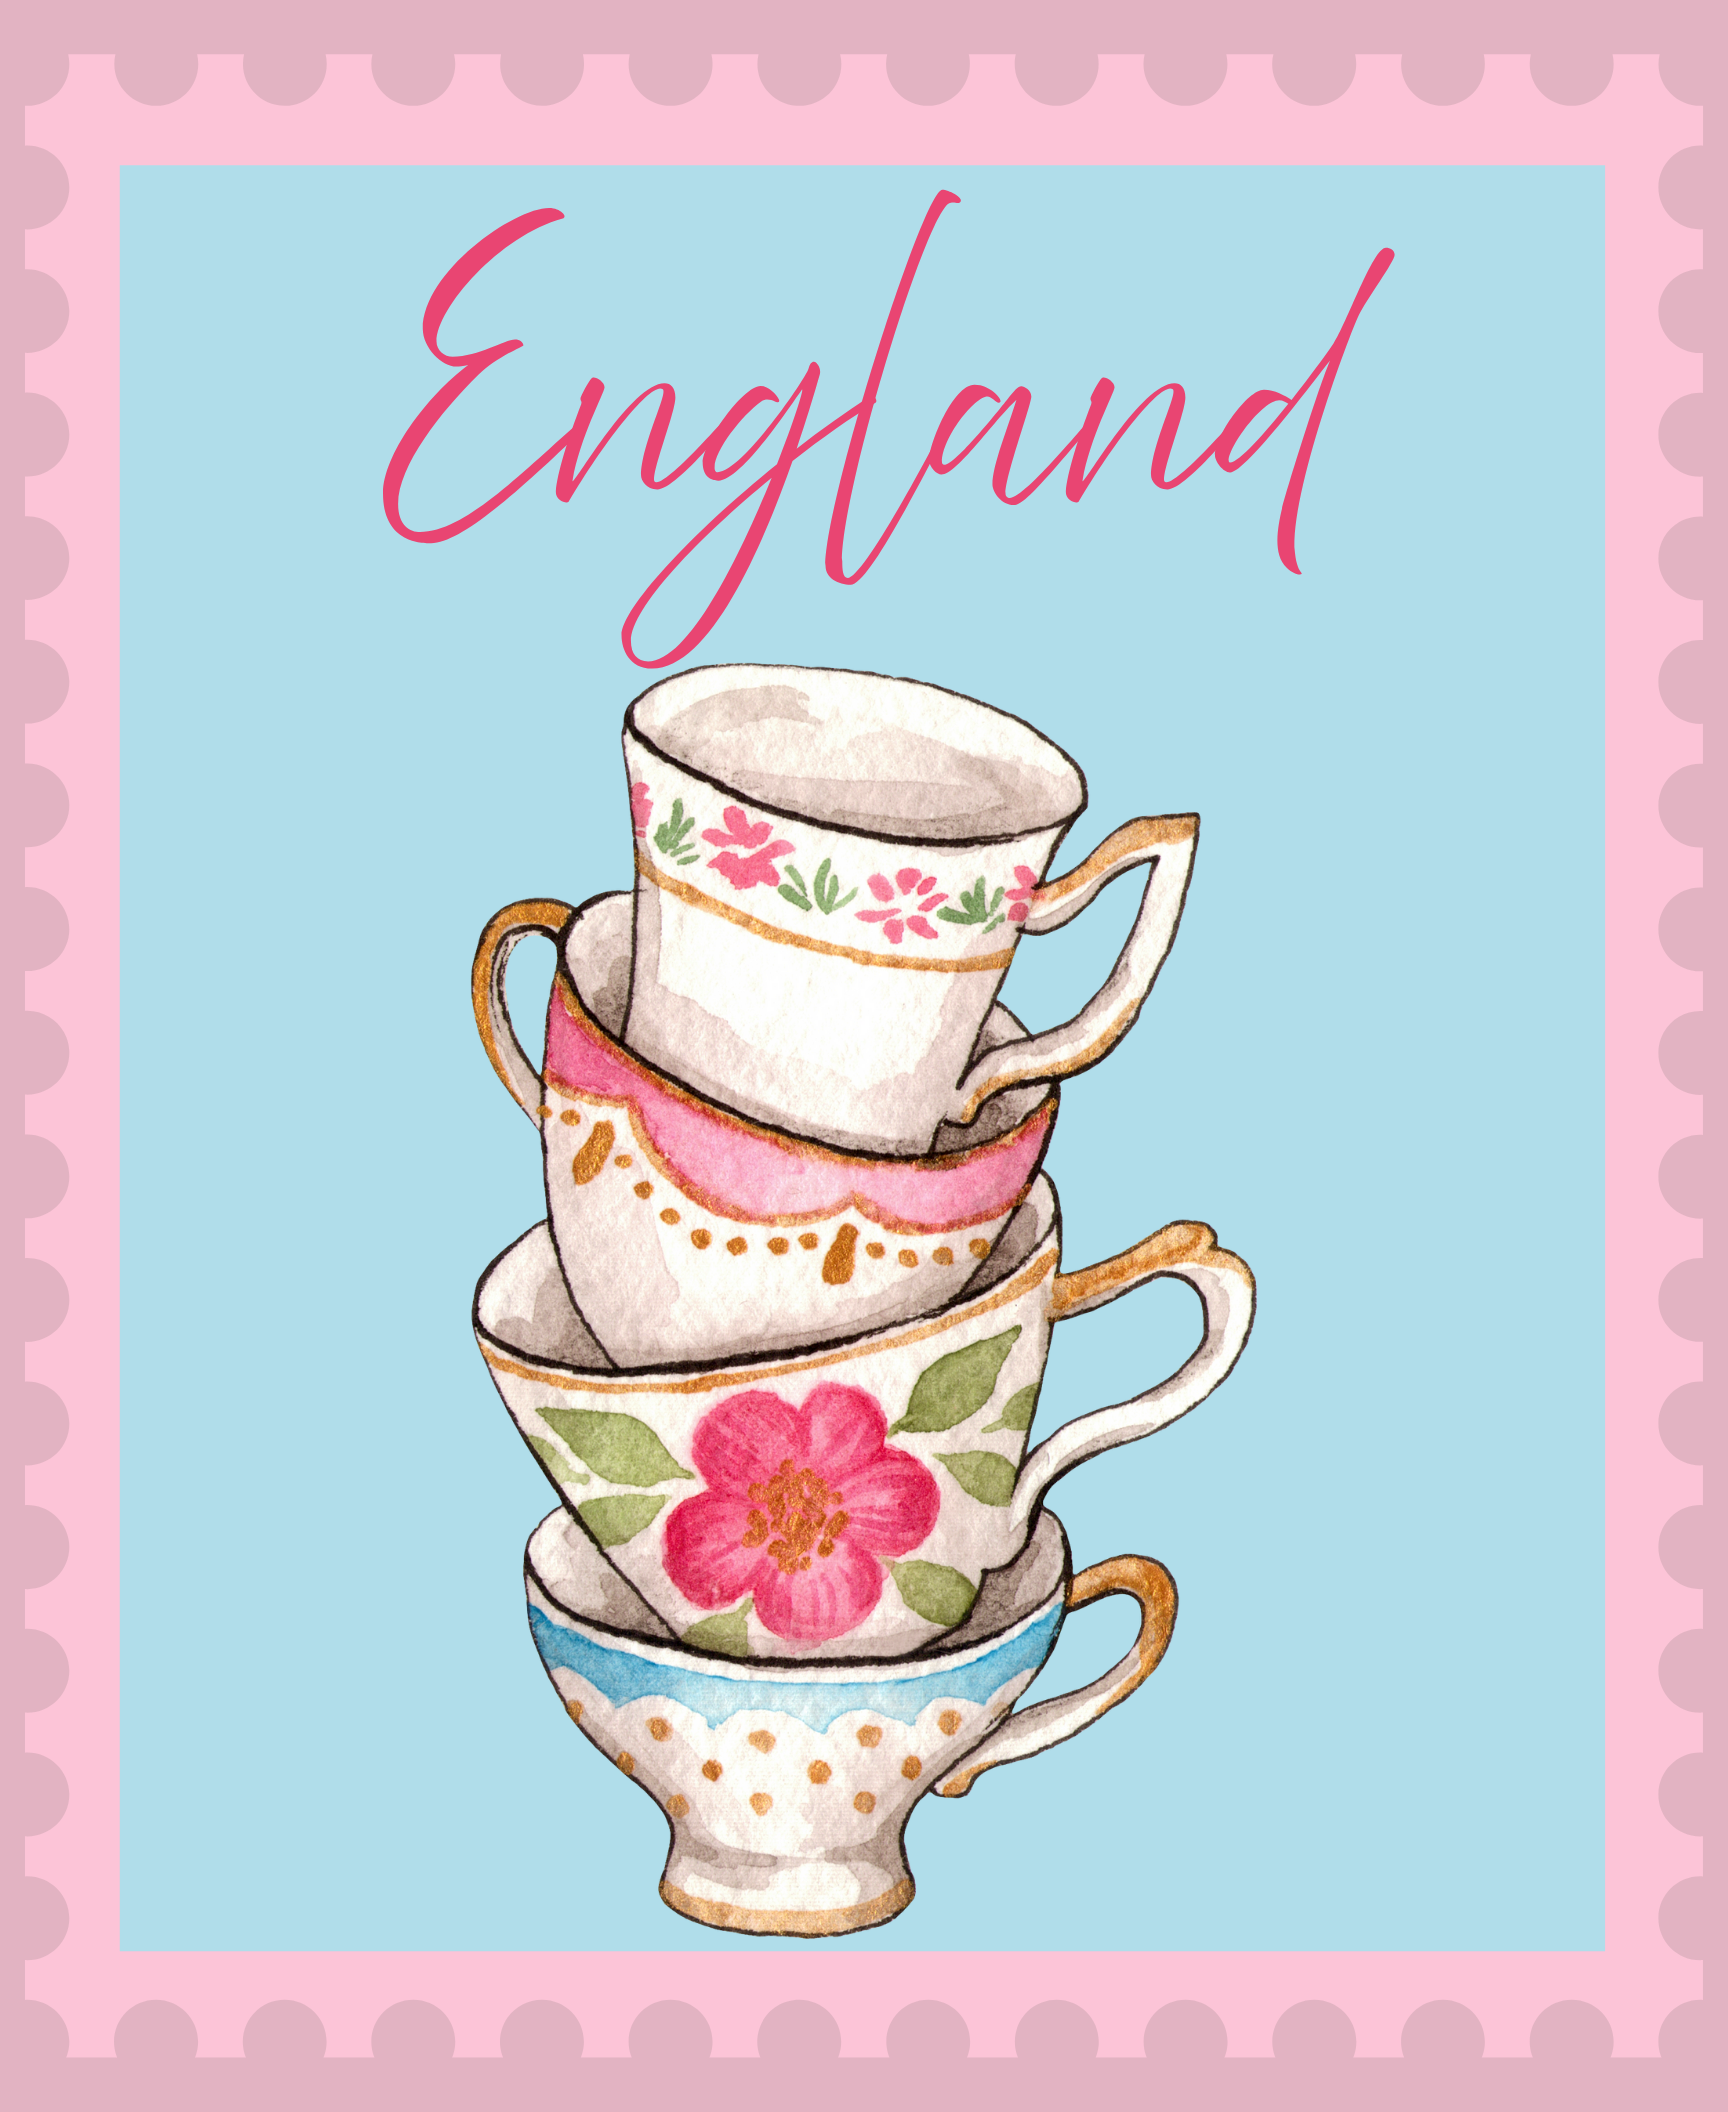
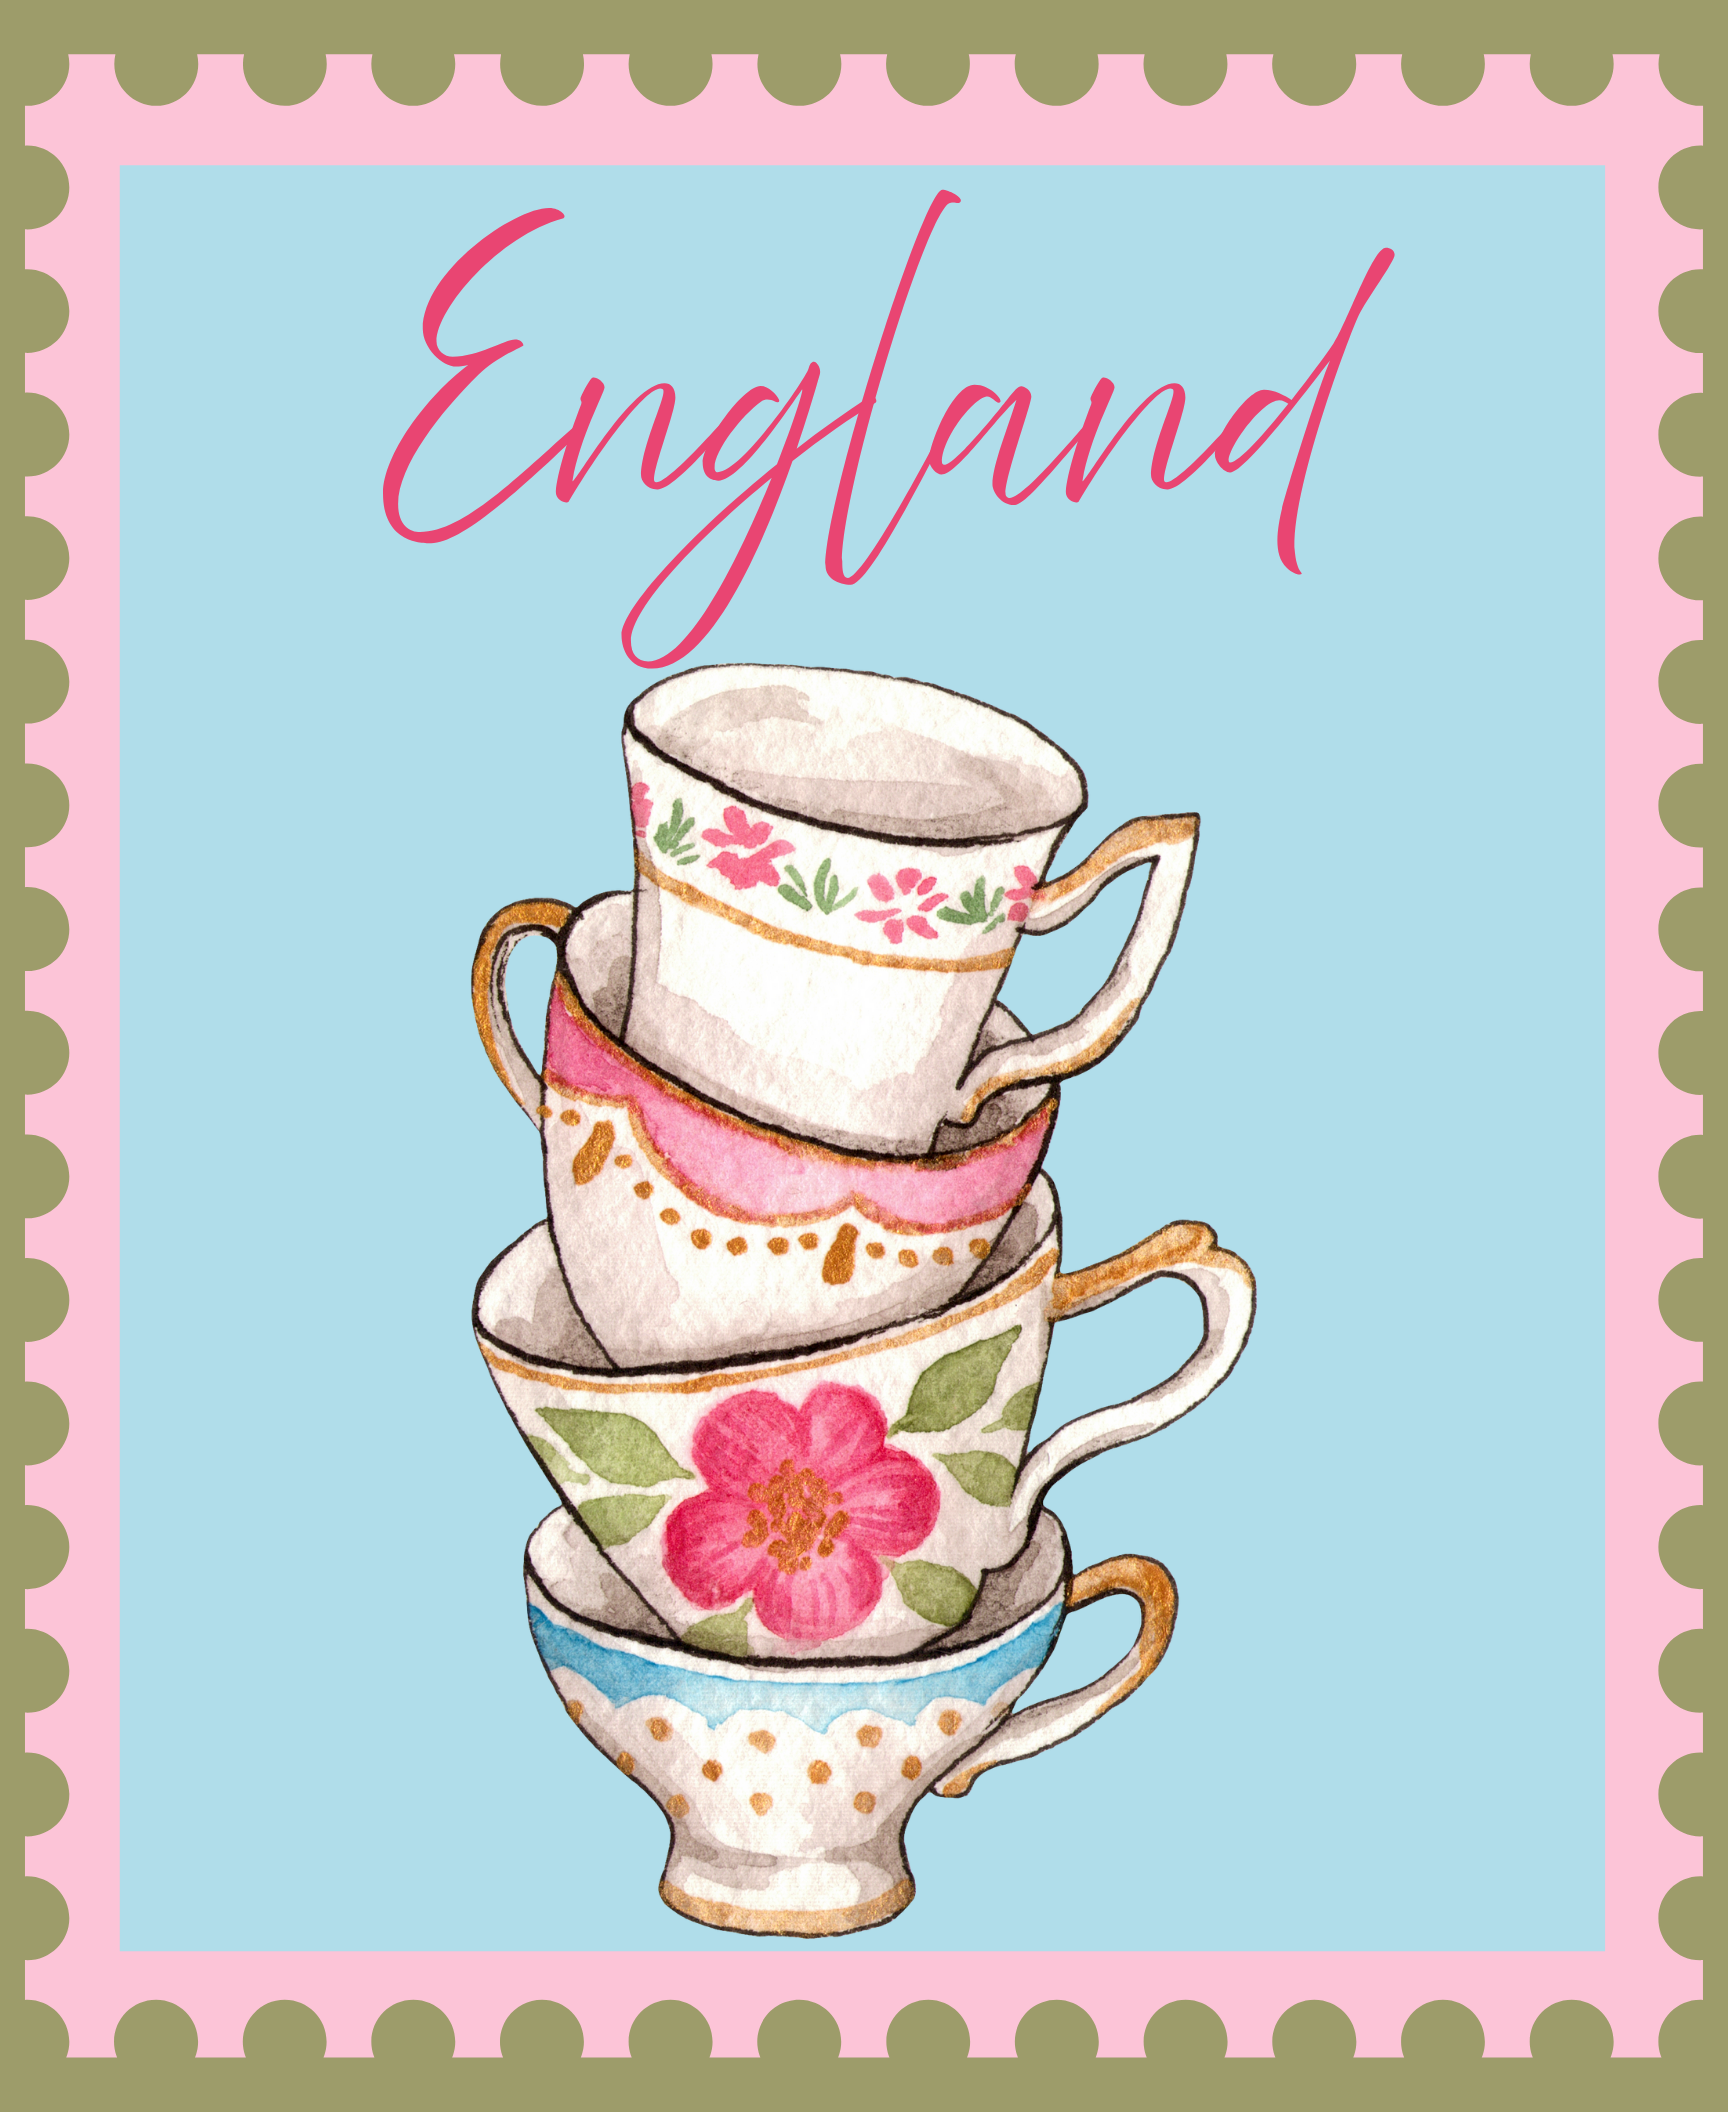
adding tab bar

Changed region(s): [[0.0, 0.0, 1.0, 1.0]]

diff --git a/nats_website/src/app/components/navbar.tsx b/nats_website/src/app/components/navbar.tsx
@@ -1,0 +1,80 @@
+"use client";
+
+import { useState } from "react";
+import TechExp from "./techexp";
+import OtherExp from "./otherexp";
+import Projects from "./projects";
+import Certifications from "./certs";
+
+
+const Navbar = () => {
+  const [activeTab, setActiveTab] = useState("techexp");
+
+  const renderTabContent = () => {
+    switch (activeTab) {
+      case "techexp":
+        return <TechExp />;
+      case "otherexp":
+        return <OtherExp />;
+      case "projects":
+        return <Projects />;
+      case "certs":
+        return <Certifications />;
+      default:
+        return null;
+    }
+  };
+
+  return (
+    <>
+      <nav className="left-0 w-full z-10 ">
+        <div className="max-w-7xl mx-auto px-4 py-2">
+          <div className="flex justify-between items-center">
+           <ul className="flex w-full font-semibold text-xl sm:text-2xl md:text-3xl lg:text-4xl
+ font-bold">
+                {[
+                    { key: "techexp", label: "Tech Experience" },
+                    { key: "otherexp", label: "Other Experience" },
+                    { key: "projects", label: "Projects" },
+                    { key: "certs", label: "Certifications" },
+                ].map(({ key, label }) => (
+                    <li key={key} className="flex-1">
+                    <button
+                        onClick={() => setActiveTab(key)}
+                        style={{
+                            backgroundColor: activeTab === key ? 'var(--eight)' : '',
+                            color: 'var(--five)',
+                             textShadow: `
+                                2px 0 var(--seven),
+                                -2px 0 var(--seven),
+                                0 2px var(--seven),
+                                0 -2px var(--seven),
+                                2px 2px var(--seven),
+                                -2px -2px var(--seven),
+                                2px -2px var(--seven),
+                                -2px 2px var(--seven)
+                            `
+                        }}
+                        className={` w-full text-center px-3 py-2 transition-colors duration-200 tracking-wide ${
+                        activeTab === key
+                            ? "text-white"
+                            : "text-gray-700 hover:bg-gray-200"
+                        }`}
+                    >
+                        {label}
+                    </button>
+                    </li>
+                ))}
+                </ul>
+
+
+          </div>
+        </div>
+      </nav>
+
+      <div className="">{renderTabContent()}</div>
+    </>
+  );
+};
+
+export default Navbar;

diff --git a/nats_website/src/app/components/name.tsx b/nats_website/src/app/components/name.tsx
@@ -51,8 +51,19 @@ const NameTransition = ({ onComplete }: { onComplete?: () => void }) =>{
        <div className="overflow-hidden m-0 p-0">
 
          <p
-            className="pointer-events-none font-bold font-anton transform-gpu will-change-transform leading-none"
-            style={{ transform: "scaleX(.95)" , textShadow: "1px 0 currentColor, -1px 0 currentColor"}}
+            className="pointer-events-none font-bold font-inter transform-gpu will-change-transform leading-none"
+            style={{ transform: "scaleX(.95)" , 
+                textShadow: `
+                    2px 0 var(--six),
+                    -2px 0 var(--six),
+                    0 2px var(--six),
+                    0 -2px var(--six),
+                    2px 2px var(--six),
+                    -2px -2px var(--six),
+                    2px -2px var(--six),
+                    -2px 2px var(--six)
+                    `
+            }}
             >
                  NATALIE
          </p>
@@ -61,8 +72,18 @@ const NameTransition = ({ onComplete }: { onComplete?: () => void }) =>{
         </div>
         <div className="overflow-hidden">
            <p
-            className="pointer-events-none font-bold font-anton transform-gpu will-change-transform leading-none"
-            style={{ transform: "scaleX(0.95)", textShadow: "1px 0 currentColor, -1px 0 currentColor"}}
+            className="pointer-events-none font-bold font-inter transform-gpu will-change-transform leading-none"
+            style={{ transform: "scaleX(0.95)", 
+                textShadow: `
+                    2px 0 var(--six),
+                    -2px 0 var(--six),
+                    0 2px var(--six),
+                    0 -2px var(--six),
+                    2px 2px var(--six),
+                    -2px -2px var(--six),
+                    2px -2px var(--six),
+                    -2px 2px var(--six)
+                    `}}
             >
                  CRAWFORD
          </p>

diff --git a/nats_website/src/app/globals.css b/nats_website/src/app/globals.css
@@ -1,19 +1,23 @@
 @import url('https://fonts.googleapis.com/css2?family=Lilita+One:wght@400;700&display=swap');
 @import url('https://fonts.google.com/share?selection.family=Bebas+Neue');
 @import url('https://fonts.google.com/share?selection.family=Anton');
+@import url('https://fonts.google.com/share?selection.family=Inter:ital,opsz,wght@0,14..32,100..900;1,14..32,100..900');
 @import "tailwindcss";
 
 
 
 :root {
-  --background: #e2b3c2;
+  --background: #9d9c6a;
   --foreground: #781727;
-  --text: #4e0714;
+  --text: #ab3451;
   --one: #4e0714;
   --two: #ac5b67;
   --three: #F3A5BC;
   --four: #efd4c4;
   --five: #5e6623;
+  --six: #e2b3c2;
+  --seven: #c3c18b;
+  --eight: #4d4d21;
 
 }
 
@@ -24,7 +28,7 @@
 
 @media (prefers-color-scheme: dark) {
   :root {
-    --background: #0a0a0a;
+    --background: #9d9c6a;
     --foreground: #ededed;
   }
 }
@@ -32,7 +36,7 @@
 body {
   background: var(--background);
   color: var(--text);
-  font-family: 'Bebas Neue', sans-serif
+  font-family: 'Inter', sans-serif;
 }
 
 

diff --git a/nats_website/src/app/page.tsx b/nats_website/src/app/page.tsx
@@ -2,6 +2,7 @@
 import { useState } from "react";
 import NameTransition from "../app/components/name";
 import Stamps from "../app/components/stamps";
+import Navbar from "./components/navbar";
 
 export default function Home() {
   const [showStamps, setShowStamps] = useState(false);
@@ -15,6 +16,11 @@ export default function Home() {
         }`}
       >
         <Stamps />
+
+        
+      </div>
+      <div className="mt-8 w-full">
+        <Navbar />
       </div>
     </div>
   );

diff --git a/nats_website/src/app/components/certs.tsx b/nats_website/src/app/components/certs.tsx
@@ -1,0 +1,15 @@
+"use client";
+import { useEffect, useState } from "react";
+
+const Certifications = () => {
+  
+
+  return (
+    <nav
+      className={`fixed top-0 left-0 w-full transition-all duration-300 ease-in-out`}
+    >
+    </nav>
+  );
+};
+
+export default Certifications;

diff --git a/nats_website/src/app/components/otherexp.tsx b/nats_website/src/app/components/otherexp.tsx
@@ -1,0 +1,20 @@
+"use client";
+import { useEffect, useState } from "react";
+
+
+const OtherExp = () => {
+  
+
+  return (
+    <>
+      <nav className="fixed top-0 left-0 w-full bg-white shadow z-10">
+    
+      </nav>
+
+    </>
+  );
+};
+
+export default OtherExp;
+
+

diff --git a/nats_website/tailwind.config.js b/nats_website/tailwind.config.js
@@ -5,6 +5,7 @@ module.exports = {
         lilita: ['"Lilita One"', 'cursive'],
         bebas: ['"Bebas Neue"', 'sans-serif'],
         anton: ['"Anton"', 'sans-serif'],
+        inter: ['"Inter"', 'sans-serif'],
       },
     },
   },

diff --git a/nats_website/src/app/components/techexp.tsx b/nats_website/src/app/components/techexp.tsx
@@ -1,0 +1,17 @@
+"use client";
+import { useEffect, useState } from "react";
+
+
+
+
+const TechExp = () => {
+  
+
+  return (
+    <div className="p-4">
+      
+    </div>
+  );
+};
+
+export default TechExp;

diff --git a/nats_website/src/app/components/projects.tsx b/nats_website/src/app/components/projects.tsx
@@ -1,0 +1,15 @@
+"use client";
+import { useEffect, useState } from "react";
+
+
+
+
+const Projects = () => { 
+
+  return (
+    <div className="p-4">
+    
+    </div>
+  );
+};
+export default Projects;
